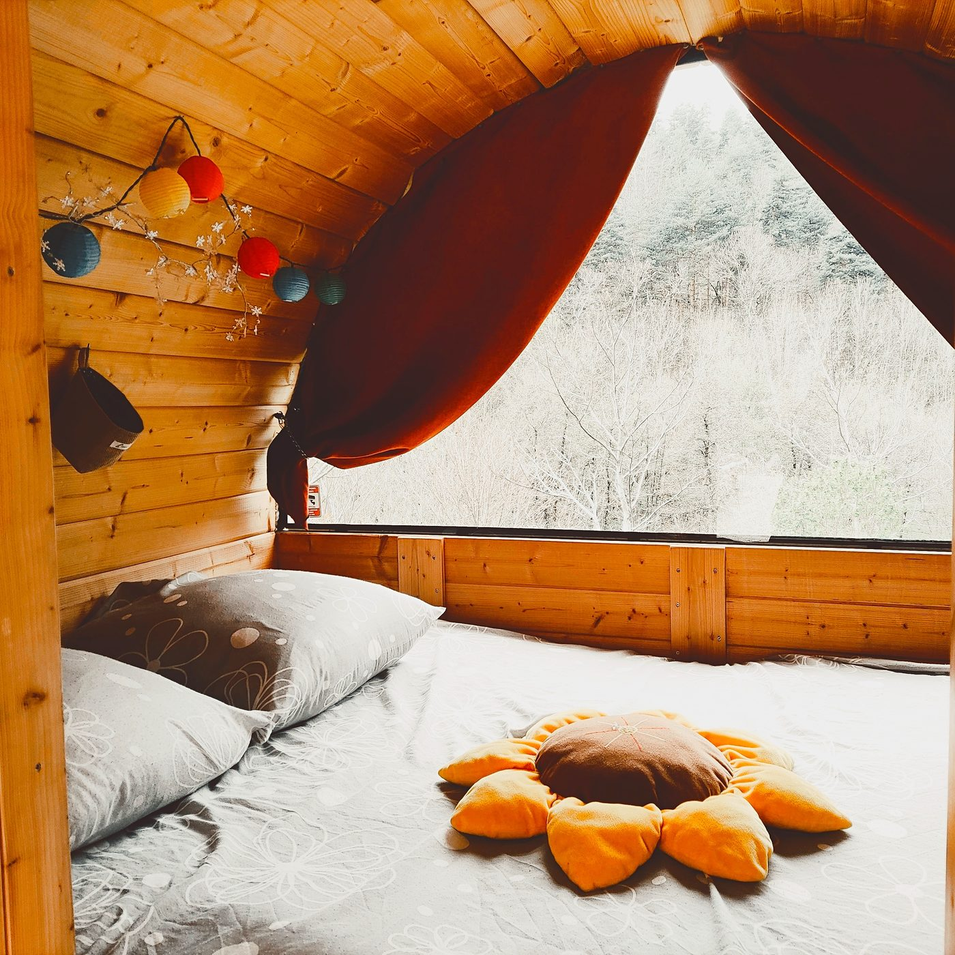
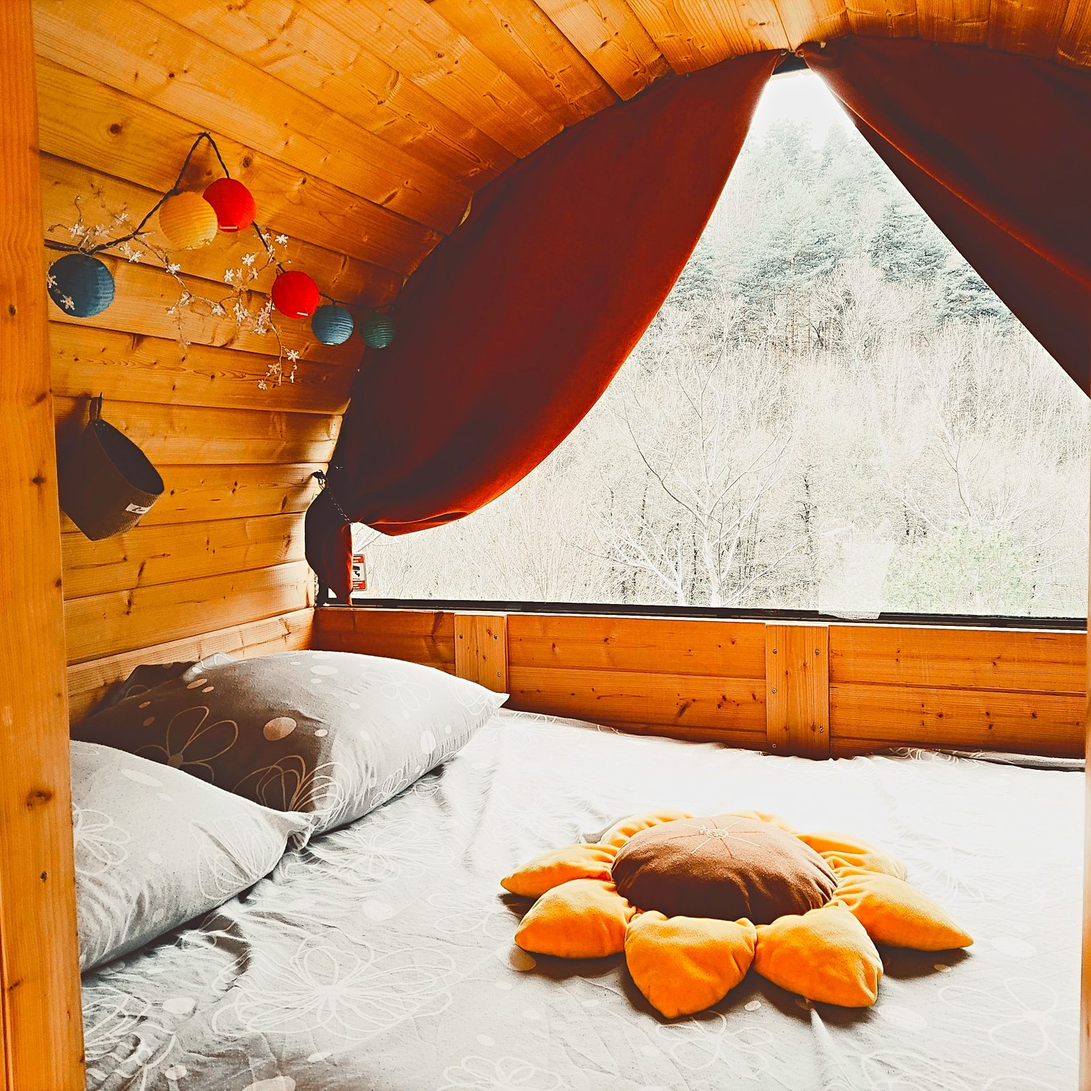
Maquette du site

diff --git a/index.html b/index.html
@@ -17,7 +17,7 @@
 .intro__fond{position:absolute;inset:0;background-size:cover}
 .avis-pastille,.avis-carte,.avis__lien,.puce--lien{text-decoration:none}
 </style>
-<link rel="stylesheet" href="css/style.css?v=20261024b">
+<link rel="stylesheet" href="css/style.css?v=20261024c">
 </head>
 <body>
 <script>if(!(window.matchMedia&&window.matchMedia('(prefers-reduced-motion: reduce)').matches))document.documentElement.classList.add('intro-actif')</script>
@@ -154,7 +154,7 @@
     <div class="panneaux apparait" id="panneaux">
       <button class="panneau est-ouvert" style="background-image:url(images/sauna-ext.jpg)"><span class="panneau__num">01</span><span class="panneau__txt"><h3>Le sauna au bois</h3><p>Détendez-vous dans un sauna en forme de tonneau chauffé au bois. Une douche extérieure attend les plus courageux.</p></span></button>
       <button class="panneau" style="background-image:url(images/cabane-int.jpg)"><span class="panneau__num">02</span><span class="panneau__txt"><h3>La cabane tonneau</h3><p>Dormez dans une cabane en forme de tonneau : 2 couchages pour une nuit insolite à l'extérieur.</p></span></button>
-      <button class="panneau" style="background-image:url(images/terrasse-facade.jpg)"><span class="panneau__num">03</span><span class="panneau__txt"><h3>Le four à pizza</h3><p>Préparez vos pizzas dans le four à bois installé sous l'appentis, pour des soirées conviviales.</p></span></button>
+      <button class="panneau" style="background-image:url(images/four-pizza.jpg)"><span class="panneau__num">03</span><span class="panneau__txt"><h3>Le four à pizza</h3><p>Préparez vos pizzas dans le four à bois installé sous l'appentis, pour des soirées conviviales.</p></span></button>
       <button class="panneau" style="background-image:url(images/terrasse-table.jpg)"><span class="panneau__num">04</span><span class="panneau__txt"><h3>La terrasse</h3><p>Profitez de la terrasse plein sud et en partie couverte : patio, plancha, barbecue, grande table et table de ping-pong.</p></span></button>
     </div>
     <div class="centre apparait"><a class="btn btn--clair" href="#contact">Réserver mon séjour</a></div>
@@ -174,7 +174,7 @@
       <button data-album="galerie" data-i="3"><img src="images/jardin.jpg" alt="Le jardin fleuri avec sa pergola bleue" loading="lazy"></button>
       <button data-album="galerie" data-i="4"><img src="images/salon.jpg" alt="Le salon avec canapé et mur en bois" loading="lazy"></button>
       <button class="g-large" data-album="galerie" data-i="5"><img src="images/terrasse-facade.jpg" alt="La terrasse couverte et le four à pizza" loading="lazy"></button>
-      <button class="g-large" data-album="galerie" data-i="6"><img src="images/hero-tonneaux.jpg" alt="Le sauna et la cabane tonneau au milieu des fleurs" loading="lazy"></button>
+      <button class="g-large" data-album="galerie" data-i="6"><img src="images/galerie-cabanes.jpg" alt="Le sauna et la cabane tonneau dans leur clairière" loading="lazy"></button>
       <button data-album="galerie" data-i="7"><img src="images/chb3-1.jpg" alt="Une chambre avec lit double" loading="lazy"></button>
       <button data-album="galerie" data-i="8"><img src="images/cuisine-bar.jpg" alt="La cuisine avec son bar" loading="lazy"></button>
     </div>
@@ -280,7 +280,7 @@
 
 
 
-<script src="js/i18n.js?v=20261024b"></script>
-<script src="js/main.js?v=20261024b"></script>
+<script src="js/i18n.js?v=20261024c"></script>
+<script src="js/main.js?v=20261024c"></script>
 </body>
 </html>

diff --git a/js/main.js b/js/main.js
@@ -70,7 +70,7 @@
     salon:{t:'Le salon',p:[['salon','Salon avec canapé et mur en bois'],['salon-2','Le salon et son éclairage'],['salon-3','Le salon et l\'escalier']]},
     cuisine:{t:'La cuisine',p:[['cuisine','Cuisine équipée'],['cuisine-bar','Cuisine avec bar et tabourets']]},
     sdb:{t:'La salle de bain',p:[['sdb','Salle de bain avec fenêtre de toit'],['sdb2','Salle de bain, vasque et WC']]},
-    galerie:{t:'Galerie',p:[['tonneaux-haut','Vue du ciel sur la maison de pierre et sa terrasse'],['sejour-large','Le séjour et la cuisine'],['cabane-int','L\'intérieur de la cabane tonneau'],['jardin','Le jardin fleuri avec sa pergola bleue'],['salon','Le salon avec canapé et mur en bois'],['terrasse-facade','La terrasse couverte et le four à pizza'],['hero-tonneaux','Le sauna et la cabane tonneau au milieu des fleurs'],['chb3-1','Une chambre avec lit double'],['cuisine-bar','La cuisine avec son bar']]}
+    galerie:{t:'Galerie',p:[['tonneaux-haut','Vue du ciel sur la maison de pierre et sa terrasse'],['sejour-large','Le séjour et la cuisine'],['cabane-int','L\'intérieur de la cabane tonneau'],['jardin','Le jardin fleuri avec sa pergola bleue'],['salon','Le salon avec canapé et mur en bois'],['terrasse-facade','La terrasse couverte et le four à pizza'],['galerie-cabanes','Le sauna et la cabane tonneau dans leur clairière'],['chb3-1','Une chambre avec lit double'],['cuisine-bar','La cuisine avec son bar']]}
   };
   var vis=$('#vis'),visImg=$('#vis-img'),visMini=$('#vis-mini'),visTitre=$('#vis-titre'),visCpt=$('#vis-cpt'),cur=null,pos=0,dernier=null;
   function montrer(n){

diff --git a/js/i18n.js b/js/i18n.js
@@ -230,7 +230,7 @@
 "Le jardin fleuri avec sa pergola bleue":"The flower garden with its blue pergola",
 "Le salon avec canapé et mur en bois":"The lounge with sofa and wooden wall",
 "La terrasse couverte et le four à pizza":"The covered terrace and the pizza oven",
-"Le sauna et la cabane tonneau au milieu des fleurs":"The sauna and the barrel cabin among the flowers",
+"Le sauna et la cabane tonneau dans leur clairière":"The sauna and the barrel cabin in their clearing",
 "Une chambre avec lit double":"A bedroom with a double bed",
 "La cuisine avec son bar":"The kitchen with its bar",
 /* panneau de réservation, textes dynamiques */
